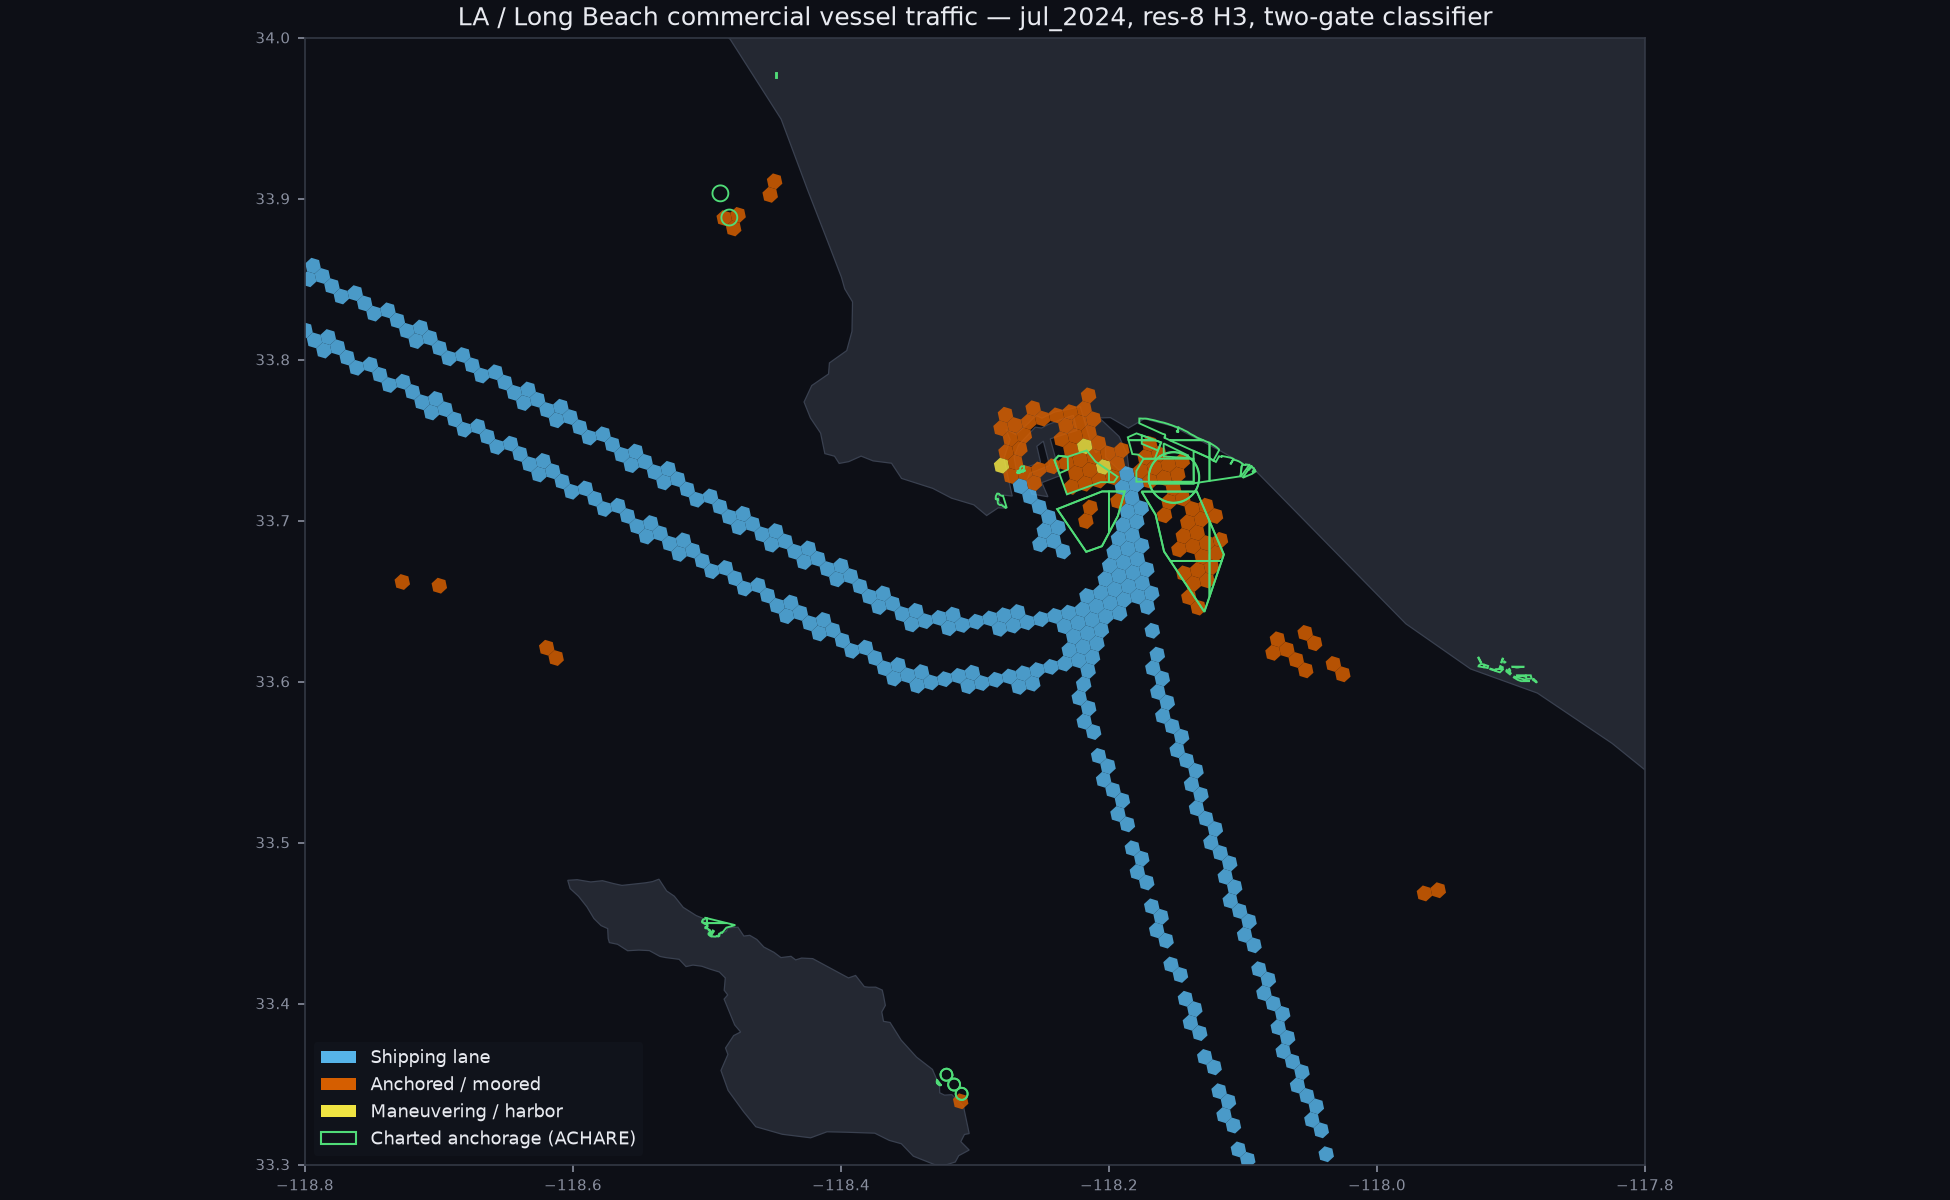
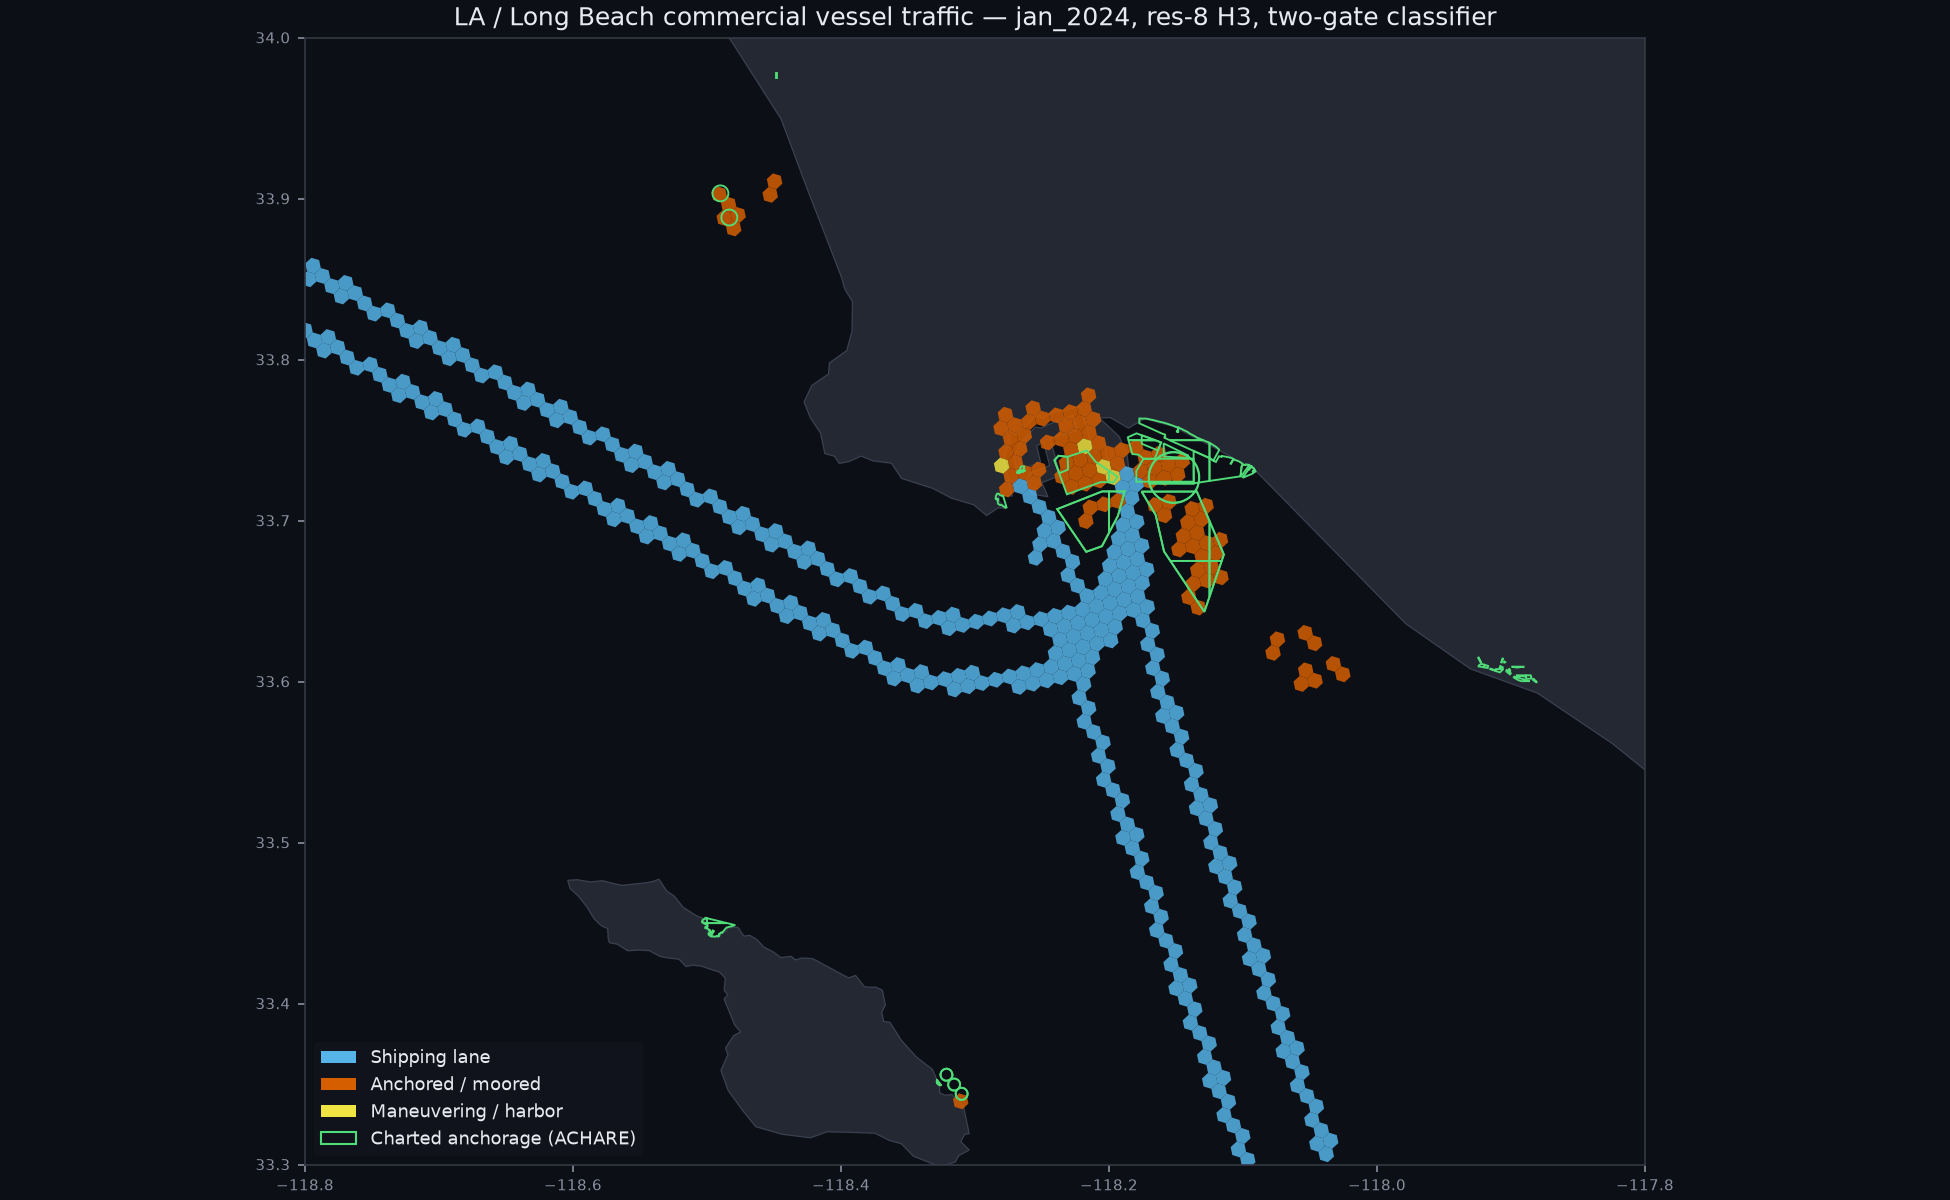
[main] - S2: seasonal comparison (Jan vs Jul 2024) — temporal_diff map + finding; commercial season-invariant, all-traffic +2.3x

diff --git a/src/visualize.py b/src/visualize.py
@@ -708,6 +708,7 @@ def visualize_all(
 ) -> dict[str, dict[str, dict[str, Path]]]:
     con = _connect()
     outputs: dict[str, dict[str, dict[str, Path]]] = {}
+    window_names = list(config.windows)
     for region, region_cfg in config.regions.items():
         for window_name in config.windows:
             result = visualize_window(con, region, window_name, region_cfg, force=force)
@@ -715,7 +716,104 @@ def visualize_all(
                 outputs.setdefault(region, {})[window_name] = result
                 validation_panel(con, region, window_name, region_cfg)
                 hero_map(con, region, window_name, region_cfg)
+        if len(window_names) >= 2:
+            temporal_diff(con, region, window_names[0], window_names[1], region_cfg)
     return outputs
+
+
+def temporal_diff(
+    con: DuckDBPyConnection,
+    region: str,
+    window_a: str,
+    window_b: str,
+    region_cfg: Region,
+    *,
+    processed_dir: Path = PROCESSED_DIR,
+    out_dir: Path = DOCS_IMG,
+) -> Path | None:
+    """Diverging map of per-cell unique-vessel density, window_a minus window_b."""
+    import matplotlib
+
+    matplotlib.use("Agg")
+    import matplotlib.pyplot as plt
+    import numpy as np
+    from matplotlib.cm import ScalarMappable
+    from matplotlib.colors import TwoSlopeNorm
+    from matplotlib.patches import Polygon
+
+    pa = processed_dir / f"region={region}" / f"window={window_a}" / "cells.parquet"
+    pb = processed_dir / f"region={region}" / f"window={window_b}" / "cells.parquet"
+    if not (pa.exists() and pb.exists()):
+        logger.info("skip diff {} — need both {} and {}", region, window_a, window_b)
+        return None
+
+    rows = con.execute(
+        "SELECT h3_cell_to_boundary_wkt(cell) AS wkt, "
+        "coalesce(a.vessels, 0) AS va, coalesce(b.vessels, 0) AS vb "
+        f"FROM read_parquet('{pa}') a FULL OUTER JOIN read_parquet('{pb}') b USING (cell)"
+    ).fetchall()
+    if not rows:
+        return None
+
+    diffs = np.array([va - vb for _, va, vb in rows], dtype=float)
+    vmax = float(np.percentile(np.abs(diffs), 98)) or 1.0
+    norm = TwoSlopeNorm(vmin=-vmax, vcenter=0.0, vmax=vmax)
+    cmap = plt.get_cmap("RdBu_r")
+
+    min_lon, min_lat, max_lon, max_lat = region_cfg.bbox
+    aspect = 1.0 / math.cos(math.radians((min_lat + max_lat) / 2))
+    fig, ax = plt.subplots(
+        figsize=(13, 8), facecolor="#0d0f16", constrained_layout=True
+    )
+    ax.set_facecolor("#0d0f16")
+    ax.set_xlim(min_lon, max_lon)
+    ax.set_ylim(min_lat, max_lat)
+    ax.set_aspect(aspect)
+    for spine in ax.spines.values():
+        spine.set_color("#333844")
+    ax.tick_params(colors="#8a90a0", labelsize=7)
+    for ring in _land_rings(region):
+        ax.add_patch(
+            Polygon(
+                ring,
+                closed=True,
+                facecolor="#242832",
+                edgecolor="#3a4150",
+                linewidth=0.6,
+                zorder=0,
+            )
+        )
+    for (wkt, _va, _vb), d in zip(rows, diffs):
+        ax.add_patch(
+            Polygon(
+                _parse_wkt_polygon(wkt),
+                closed=True,
+                facecolor=cmap(norm(d)),
+                edgecolor="none",
+                alpha=0.9,
+                zorder=2,
+            )
+        )
+    sm = ScalarMappable(norm=norm, cmap=cmap)
+    sm.set_array([])
+    cbar = fig.colorbar(sm, ax=ax, fraction=0.046, pad=0.04)
+    cbar.set_label(
+        f"unique vessels per cell: {window_a} − {window_b}", color="#e8eaf0", fontsize=8
+    )
+    cbar.ax.yaxis.set_tick_params(color="#8a90a0", labelsize=7)
+    plt.setp(cbar.ax.get_yticklabels(), color="#8a90a0")
+    label = _REGION_LABEL.get(region, region.replace("_", " ").title())
+    ax.set_title(
+        f"{label} seasonal difference — {window_a} vs {window_b} (per-cell unique vessels)",
+        color="#e8eaf0",
+        fontsize=12,
+    )
+    out_dir.mkdir(parents=True, exist_ok=True)
+    out = out_dir / f"diff_{region}_{window_a}_vs_{window_b}.png"
+    fig.savefig(out, dpi=150, facecolor="#0d0f16")
+    plt.close(fig)
+    logger.info("wrote temporal diff -> {}", out)
+    return out
 
 
 def main() -> None:
@@ -742,6 +840,9 @@ def main() -> None:
         visualize_window(con, args.region, window_name, region_cfg, force=args.force)
         validation_panel(con, args.region, window_name, region_cfg)
         hero_map(con, args.region, window_name, region_cfg)
+    window_names = list(config.windows)
+    if len(window_names) >= 2:
+        temporal_diff(con, args.region, window_names[0], window_names[1], region_cfg)
 
 
 if __name__ == "__main__":

diff --git a/README.md b/README.md
@@ -102,6 +102,27 @@ At res 9 (finer, for the narrow channel) the month yields 13,725 cells — 497 l
 the transit raster) are vendored for LA/Long Beach only, so Houston's validation
 panel is skipped gracefully rather than drawn against the wrong extent.
 
+## Seasonal comparison (January vs July 2024)
+
+Running the same pipeline over a second 31-day window (January 2024) and diffing
+per-cell unique-vessel density against July isolates the seasonal signal:
+
+![LA/Long Beach seasonal difference, July minus January](docs/img/diff_la_long_beach_jul_2024_vs_jan_2024.png)
+
+Red is July-heavy, blue January-heavy — and the map is red almost everywhere.
+July draws **2,547 distinct vessels** to the region against January's **1,761**
+(+45 %), and those vessels roam far more widely: total per-cell vessel visits are
+**2.3× higher** in July (276k vs 122k), filling the coastal water (the pale-red
+background) and lighting the lanes deepest red.
+
+The control is the payoff. The **commercial stratum barely moves** — ~300
+shipping-lane cells (297 July, 332 January) and ~95 anchored cells (98 vs 94) in
+both months; the small differences track the per-window adaptive gate, not
+seasonal commercial volume. The scheduled cargo/tanker fleet is season-invariant,
+so the pervasive all-traffic surge is genuinely recreational, not a data-coverage
+artifact. This is [Finding 1](#findings) in the time dimension: the naïve density
+swings 2.3× with the seasons while the stratified commercial view holds steady.
+
 ## Validation
 
 ![Classified commercial cells vs NOAA transit counts](docs/img/validation_panel_la_long_beach.png)
